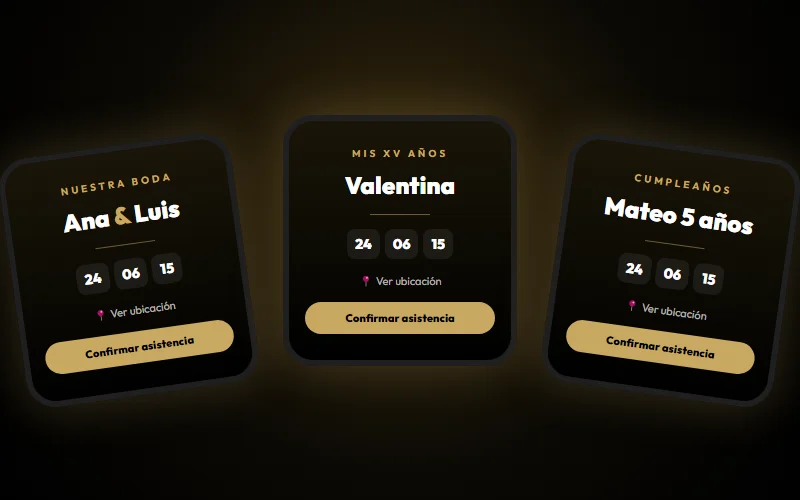
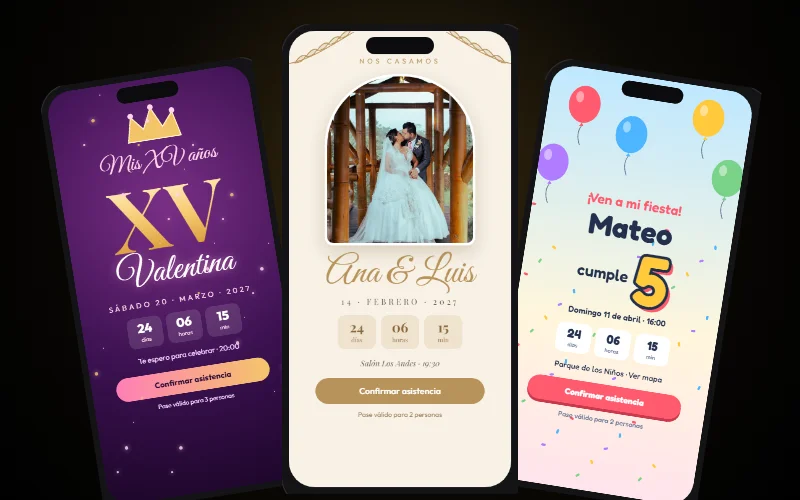
feat(sitio): imágenes reales y mockups (PROMPT_IMAGENES) + nuevas invitaciones de ejemplo
- Mockups de laptop con pantallas reales: web (ICALP), sistemas (Vendly), educativos (CAULP)
- Laptop con informe semáforo (datos ficticios) y panel 'Estado del sitio: en línea'
- Celular con anuncio propio para publicidad; foto de Pexels para foto y video
- Invitaciones de ejemplo rediseñadas: boda (crema/dorado con foto), XV (morado/dorado),
  cumpleaños infantil (globos); visibles también en celular; sección 'Así se ven' en /eventos
- Textos alternativos descriptivos en español; CREDITOS_IMAGENES.md con origen de cada imagen

diff --git a/frontend/src/data/pilares.js b/frontend/src/data/pilares.js
@@ -20,6 +20,7 @@ export const pillarPages = {
         id: 'publicidad',
         name: 'Publicidad en Facebook y TikTok',
         image: '/img/svc-publicidad.webp',
+        imageAlt: 'Celular mostrando un anuncio patrocinado de Marketing Místico en redes sociales',
         problem: 'Publicas en redes, gastas en "promocionar" y los mensajes de clientes no llegan.',
         includes: ['Estrategia y público por ciudad, edad e intereses', 'Anuncios con diseños y videos que venden', 'Seguimiento y ajustes durante la campaña', 'Reporte claro de en qué se fue tu dinero'],
         forWho: 'Negocios con un producto o servicio listo para vender que quieren más mensajes por WhatsApp.',
@@ -29,6 +30,7 @@ export const pillarPages = {
         id: 'diseno',
         name: 'Diseño y branding',
         image: '/img/svc-diseno.webp',
+        imageAlt: 'Pieza de diseño publicitario para una marca de relojes',
         problem: 'Tu marca se ve improvisada y eso hace que la gente no confíe ni pague lo que vales.',
         includes: ['Logo e identidad visual', 'Plantillas para tus publicaciones', 'Piezas para anuncios', 'Guía básica de colores y tipografías'],
         forWho: 'Emprendimientos que empiezan o marcas que quieren verse profesionales.',
@@ -38,6 +40,7 @@ export const pillarPages = {
         id: 'fotovideo',
         name: 'Foto y video',
         image: '/img/svc-fotovideo.webp',
+        imageAlt: 'Cámara de cine profesional en un set de grabación',
         problem: 'Las fotos con el celular no muestran lo bueno que es tu producto.',
         includes: ['Sesión de fotos de productos o del local', 'Reels y videos verticales para TikTok', 'Edición lista para publicar', 'Spots para tus anuncios'],
         forWho: 'Restaurantes, tiendas, academias y marcas que venden por redes.',
@@ -47,6 +50,7 @@ export const pillarPages = {
         id: 'web',
         name: 'Páginas web',
         image: '/img/svc-web.webp',
+        imageAlt: 'Laptop mostrando el sitio web del Colegio de Abogados de La Paz',
         problem: 'Te buscan en Google y no te encuentran, o tu web no genera ningún mensaje.',
         includes: ['Diseño pensado primero para el celular', 'Botón directo a tu WhatsApp', 'Configuración básica para Google', 'Ayuda con dominio y correo'],
         forWho: 'Profesionales, empresas e instituciones que necesitan una imagen seria en internet.',
@@ -56,6 +60,7 @@ export const pillarPages = {
         id: 'vendly',
         name: 'Tiendas online con Vendly',
         image: '/img/work-vendly.webp',
+        imageAlt: 'Página de Vendly, plataforma de tiendas online para emprendedores bolivianos',
         problem: 'Vendes por WhatsApp anotando pedidos a mano y pierdes ventas por desorden.',
         includes: ['Tu tienda online con catálogo', 'Cobros con QR, Yape, Tigo Money o transferencia', 'Pedidos que te llegan por WhatsApp', 'Hecho en Bolivia, con soporte en español'],
         forWho: 'Emprendedores que venden productos y quieren ordenar sus pedidos.',
@@ -87,6 +92,7 @@ export const pillarPages = {
         id: 'sistemas',
         name: 'Sistemas a medida',
         image: '/img/svc-sistemas.webp',
+        imageAlt: 'Laptop mostrando el panel de ventas de Vendly, sistema hecho a medida',
         problem: 'Controlas ventas, inventario o clientes en cuadernos y Excel que se pierden o se contradicen.',
         includes: ['Entendemos tu proceso antes de programar', 'Sistema web que usas desde el celular o la compu', 'Usuarios y permisos para tu equipo', 'Reportes para tomar decisiones'],
         forWho: 'Negocios con tareas repetitivas: ventas, inventario, reservas, cobranzas.',
@@ -95,7 +101,8 @@ export const pillarPages = {
       {
         id: 'educativos',
         name: 'Sistemas para instituciones educativas',
-        image: '/img/case-caulp.webp',
+        image: '/img/svc-educativos.webp',
+        imageAlt: 'Laptop mostrando la plataforma del Colegio de Auditores de La Paz (CAULP)',
         problem: 'Inscripciones, pagos y datos de estudiantes se manejan a mano y por mensajes sueltos.',
         includes: ['Oferta de cursos, diplomados y maestrías en línea', 'Inscripción y registro de estudiantes', 'Acceso para estudiantes', 'Reportes para la administración'],
         forWho: 'Institutos, centros de capacitación, colegios profesionales y universidades.',
@@ -106,6 +113,7 @@ export const pillarPages = {
         id: 'chatbots',
         name: 'Automatización y chatbots de WhatsApp con IA',
         image: '/img/svc-chatbots.webp',
+        imageAlt: 'Celular con un chatbot respondiendo automáticamente a un cliente',
         icon: 'Bot',
         problem: 'Respondes las mismas preguntas todo el día y se te escapan clientes por no contestar a tiempo.',
         includes: ['Respuestas automáticas a preguntas frecuentes', 'Toma de datos y pedidos del cliente', 'Pasa la conversación a una persona cuando hace falta', 'Conexión con tu catálogo o tu sistema'],
@@ -116,6 +124,7 @@ export const pillarPages = {
         id: 'capacitacion',
         name: 'Capacitación a empresas',
         image: '/img/svc-capacitacion.webp',
+        imageAlt: 'Pantalla de un taller práctico de IA y herramientas digitales para equipos',
         icon: 'GraduationCap',
         problem: 'Tu equipo no aprovecha las herramientas digitales y todo depende de una sola persona.',
         includes: ['Talleres prácticos a medida de tu empresa', 'Redes sociales, IA y herramientas de oficina', 'Uso de los sistemas que implementamos', 'Presencial o virtual'],
@@ -138,6 +147,7 @@ export const pillarPages = {
         id: 'auditoria',
         name: 'Diagnóstico y auditoría',
         image: '/img/svc-auditoria.webp',
+        imageAlt: 'Laptop mostrando un informe de diagnóstico tipo semáforo con datos de ejemplo',
         icon: 'SearchCheck',
         problem: 'No sabes si tu web, tus correos o tus datos están en riesgo hasta que algo falla.',
         includes: ['Revisión de tu web y hosting', 'Dominio, correo y accesos', 'Respaldos y contraseñas', 'Informe con semáforo y plan de acción'],
@@ -149,6 +159,7 @@ export const pillarPages = {
         id: 'mantenimiento',
         name: 'Mantenimiento y soporte mensual',
         image: '/img/svc-mantenimiento.webp',
+        imageAlt: 'Laptop mostrando el panel de mantenimiento: estado del sitio en línea',
         icon: 'Wrench',
         problem: 'Tu web se cae, queda desactualizada o necesitas un cambio y nadie se encarga.',
         includes: ['Hosting y vigilancia de tu web', 'Respaldos periódicos', 'Actualizaciones de seguridad', 'Cambios pequeños cada mes'],
@@ -160,6 +171,7 @@ export const pillarPages = {
         id: 'respaldos',
         name: 'Respaldos y seguridad',
         image: '/img/svc-respaldos.webp',
+        imageAlt: 'Lista de respaldos automáticos completados',
         icon: 'DatabaseBackup',
         problem: 'Si se daña la computadora o te roban una cuenta, puedes perder años de información.',
         includes: ['Copias de seguridad automáticas', 'Verificación en dos pasos en tus cuentas', 'Revisión de quién tiene acceso a qué', 'Plan para recuperarte si pasa algo'],

diff --git a/frontend/src/components/InvitationExamples.jsx b/frontend/src/components/InvitationExamples.jsx
@@ -1,0 +1,54 @@
+import React from 'react';
+
+// Ejemplos de invitaciones (nombres ficticios). Cuando el sistema de invitaciones esté listo,
+// agrega "demoUrl" a cada una y aparecerá el botón "Ver invitación en vivo".
+const examples = [
+  { id: 'quince', label: 'Quinceañero', name: 'Valentina', image: '/img/inv-quince.webp', alt: 'Invitación digital de quinceañero en celular, morada con corona dorada', demoUrl: '' },
+  { id: 'boda', label: 'Boda', name: 'Ana & Luis', image: '/img/inv-boda.webp', alt: 'Invitación digital de boda en celular, color crema con foto de los novios', demoUrl: '' },
+  { id: 'cumple', label: 'Cumpleaños infantil', name: 'Mateo cumple 5', image: '/img/inv-cumple.webp', alt: 'Invitación digital de cumpleaños infantil en celular, con globos de colores', demoUrl: '' },
+];
+
+const InvitationExamples = () => (
+  <section className="py-12 md:py-16">
+    <div className="container mx-auto px-4 sm:px-6">
+      <div className="text-center max-w-2xl mx-auto mb-8 md:mb-12">
+        <p className="text-[#c9a961] text-xs uppercase tracking-[0.2em] font-black mb-3">Ejemplos</p>
+        <h2 className="text-white text-[1.75rem] sm:text-4xl font-black tracking-tight mb-3">Así se ven tus invitaciones</h2>
+        <p className="text-white/70">Cada diseño se adapta a tu evento: tus fotos, tus colores y tus datos.</p>
+      </div>
+
+      {/* Celular: los 3 ejemplos en una sola imagen */}
+      <img
+        src="/img/svc-invitaciones.webp"
+        alt="Tres ejemplos de invitaciones digitales en celular: quinceañero, boda y cumpleaños infantil"
+        width="800"
+        height="500"
+        loading="lazy"
+        decoding="async"
+        className="md:hidden w-full rounded-2xl"
+      />
+
+      {/* Tablet y escritorio: cada ejemplo grande */}
+      <div className="hidden md:grid grid-cols-3 gap-6 lg:gap-10 max-w-5xl mx-auto items-end">
+        {examples.map((ex, i) => (
+          <figure key={ex.id} className={`text-center ${i === 1 ? 'md:-translate-y-6' : ''}`}>
+            <img src={ex.image} alt={ex.alt} width="382" height="762" loading="lazy" decoding="async" className="w-full max-w-[280px] mx-auto drop-shadow-[0_25px_40px_rgba(0,0,0,0.6)]" />
+            <figcaption className="mt-5">
+              <p className="text-[#c9a961] text-xs uppercase tracking-[0.18em] font-black">{ex.label}</p>
+              <p className="text-white font-bold">{ex.name}</p>
+              {ex.demoUrl ? (
+                <a href={ex.demoUrl} target="_blank" rel="noopener noreferrer" className="inline-block mt-3 text-sm font-bold text-black bg-[#c9a961] hover:bg-[#d4af37] px-5 py-2.5 rounded-full">
+                  Ver invitación en vivo
+                </a>
+              ) : (
+                <p className="text-white/45 text-xs mt-1">Demo en vivo muy pronto</p>
+              )}
+            </figcaption>
+          </figure>
+        ))}
+      </div>
+    </div>
+  </section>
+);
+
+export default InvitationExamples;

diff --git a/frontend/src/components/Invitations.jsx b/frontend/src/components/Invitations.jsx
@@ -1,5 +1,5 @@
 import React from 'react';
-import { Check, MapPin, Clock, CalendarHeart, ExternalLink } from 'lucide-react';
+import { Check, ExternalLink } from 'lucide-react';
 import { invitationsSection, invitationPackages, invitationSteps } from '../data/landing';
 import { waLink, whatsappMessages } from '../data/contacto';
 import SectionHeader from './SectionHeader';
@@ -8,37 +8,6 @@ import metaPixel from '../lib/metaPixel';
 
 const packageMessage = (pkg) =>
   `Hola Marketing Místico 👋 Quiero la invitación digital ${pkg.name} (Bs ${pkg.price}). Mi evento es: `;
-
-// Celular de muestra (ilustrativo) para que el cliente imagine su invitación.
-const PhoneMockup = () => (
-  <div className="relative mx-auto w-[220px] sm:w-[240px] shrink-0" aria-hidden="true">
-    <span className="absolute -top-3 left-1/2 -translate-x-1/2 z-10 bg-white/10 border border-white/20 text-white/70 text-[10px] uppercase tracking-widest font-bold px-3 py-1 rounded-full backdrop-blur">
-      Ejemplo
-    </span>
-    <div className="rounded-[2.2rem] border-[6px] border-[#1f1f1f] bg-gradient-to-b from-[#1a1508] via-[#0d0b07] to-black shadow-[0_0_60px_rgba(201,169,97,0.18)] overflow-hidden">
-      <div className="h-5 flex justify-center pt-1.5"><div className="w-16 h-1.5 rounded-full bg-[#2a2a2a]" /></div>
-      <div className="px-5 pt-5 pb-6 text-center">
-        <p className="text-[#c9a961] text-[10px] uppercase tracking-[0.3em] font-bold">Nuestra boda</p>
-        <p className="text-white text-2xl font-black mt-2 leading-tight">Ana <span className="text-[#c9a961]">&</span> Luis</p>
-        <div className="h-px w-16 bg-[#c9a961]/50 mx-auto my-4" />
-        <div className="grid grid-cols-4 gap-1.5 mb-4">
-          {[['24', 'días'], ['06', 'hrs'], ['15', 'min'], ['40', 'seg']].map(([n, l]) => (
-            <div key={l} className="bg-white/5 rounded-lg py-1.5">
-              <p className="text-white text-sm font-black">{n}</p>
-              <p className="text-white/50 text-[9px]">{l}</p>
-            </div>
-          ))}
-        </div>
-        <div className="space-y-2 text-left text-[11px] text-white/75 mb-5">
-          <p className="flex items-center gap-2"><CalendarHeart size={13} className="text-[#c9a961]" /> Sábado 14 de febrero</p>
-          <p className="flex items-center gap-2"><Clock size={13} className="text-[#c9a961]" /> 19:30</p>
-          <p className="flex items-center gap-2"><MapPin size={13} className="text-[#c9a961]" /> Ver ubicación en el mapa</p>
-        </div>
-        <div className="bg-[#c9a961] text-black text-[11px] font-black rounded-full py-2.5">Confirmar asistencia</div>
-      </div>
-    </div>
-  </div>
-);
 
 const PackageCard = ({ pkg }) => (
   <article
@@ -111,7 +80,6 @@ const Invitations = () => (
             ))}
           </ol>
         </div>
-        <div className="hidden lg:block"><PhoneMockup /></div>
       </div>
 
       <div className="grid md:grid-cols-3 gap-6 md:gap-5 lg:gap-6 max-w-6xl mx-auto pt-3">

diff --git a/frontend/src/pages/PillarPage.jsx b/frontend/src/pages/PillarPage.jsx
@@ -29,7 +29,7 @@ const ServiceBlock = ({ service, reverse }) => {
     <article id={service.id} className="scroll-mt-24 grid md:grid-cols-2 gap-6 md:gap-12 items-center py-10 md:py-14 border-t border-white/10 first:border-t-0">
       <div className={`${reverse ? 'md:order-2' : ''} ${service.image ? '' : 'hidden md:block'}`}>
         {service.image ? (
-          <img src={service.image} alt={service.name} width="800" height="500" loading="lazy" decoding="async" className="w-full aspect-[16/10] object-cover object-top rounded-3xl border border-white/10" />
+          <img src={service.image} alt={service.imageAlt || service.name} width="800" height="500" loading="lazy" decoding="async" className="w-full aspect-[16/10] object-cover object-top rounded-3xl border border-white/10" />
         ) : (
           <div className="hidden md:flex w-full aspect-[16/10] rounded-3xl border border-[#c9a961]/25 bg-gradient-to-br from-[#1a1508] via-[#0b0905] to-black items-center justify-center">
             {Icon && <Icon size={84} strokeWidth={1.2} className="text-[#c9a961]/80" />}

diff --git a/frontend/src/pages/Eventos.jsx b/frontend/src/pages/Eventos.jsx
@@ -2,6 +2,7 @@ import React, { lazy, Suspense } from 'react';
 import { PartyPopper, Send, CheckCircle, QrCode, ScanLine } from 'lucide-react';
 import PageLayout from '../components/PageLayout';
 import PageHero from '../components/PageHero';
+import InvitationExamples from '../components/InvitationExamples';
 import WhatsAppButton from '../components/WhatsAppButton';
 import { eventosPage } from '../data/paginas';
 import { pageMessages } from '../data/sitio';
@@ -26,6 +27,8 @@ const Eventos = () => (
         </button>
       </div>
     </PageHero>
+
+    <InvitationExamples />
 
     {/* Pases QR y control de asistencia */}
     <section className="py-12 md:py-16">

diff --git a/frontend/src/components/EventsBand.jsx b/frontend/src/components/EventsBand.jsx
@@ -27,11 +27,12 @@ const EventsBand = () => (
         </div>
         <img
           src="/img/svc-invitaciones.webp"
-          alt="Ejemplos de invitaciones digitales"
+          alt="Tres ejemplos de invitaciones digitales en celular: boda, quinceañero y cumpleaños infantil"
           width="800"
           height="500"
           loading="lazy"
-          className="hidden md:block w-[380px] rounded-2xl border border-white/10"
+          decoding="async"
+          className="order-first md:order-none w-full md:w-[420px] rounded-2xl border border-white/10"
         />
       </div>
     </div>

diff --git a/CREDITOS_IMAGENES.md b/CREDITOS_IMAGENES.md
@@ -1,0 +1,45 @@
+# Créditos de imágenes — marketingmistico.com
+
+Regla: nada de Google Imágenes ni de otras webs. Solo imágenes propias, bancos gratuitos con licencia comercial
+(Unsplash, Pexels, Pixabay) o mockups hechos con código. Todas optimizadas a WebP con carga diferida.
+
+## 1. Bancos gratuitos (licencia comercial)
+
+| Archivo en la web | Uso | Fuente | Autor | Licencia |
+|---|---|---|---|---|
+| `img/svc-fotovideo.webp` | Servicio "Foto y video" | https://www.pexels.com/photo/close-up-photo-of-black-camera-10395639/ | Syed Qaarif Andrabi (https://www.pexels.com/@qaarif/) | Licencia Pexels (uso comercial gratuito) |
+| `img/inv-boda.webp`, `img/svc-invitaciones.webp` (foto de los novios) | Ejemplo de invitación de boda | https://www.pexels.com/photo/photo-of-the-bride-and-groom-kissing-25637515/ | **[CONFIRMAR AUTOR]** — Pexels bloqueó la consulta automática; abre el enlace y copia el nombre aquí | Licencia Pexels (uso comercial gratuito) |
+
+## 2. Imágenes propias de Marketing Místico
+
+| Archivo | Origen |
+|---|---|
+| `img/robot-base.webp`, `img/robot-brazo-izq.webp`, `img/robot-brazo-der.webp` | Cuadro del video propio `video_header` (generado con Google Veo), recortado en capas |
+| `img/yo-retrato.webp`, `img/yo-avatar.webp` | Foto profesional del dueño ("Retrato profesional con halo cálido") |
+| `img/svc-diseno.webp` | Diseño propio (`luxury_watch_post.webp`) |
+| `img/svc-publicidad.webp` | Anuncio propio (`publicidad (3).webp`) dentro de un mockup de celular |
+| `img/work-cenefco.webp`, `img/work-pasion.webp` | Miniaturas de trabajos propios |
+| `og-image.jpg`, `logo_nav.webp` | Logo y textos de la marca |
+
+## 3. Capturas reales de proyectos (sitios hechos por Marketing Místico)
+
+| Archivo | Sitio capturado |
+|---|---|
+| `img/svc-web.webp`, `img/work-icalp.webp` | https://icalp.org.bo (Colegio de Abogados de La Paz) |
+| `img/svc-educativos.webp`, `img/case-caulp.webp` | https://caulp.org.bo (Colegio de Auditores de La Paz) |
+| `img/svc-sistemas.webp`, `img/work-vendly.webp` | https://vendly.com.bo (producto propio) |
+
+## 4. Mockups e ilustraciones hechos con código (sin derechos de terceros)
+
+| Archivo | Contenido |
+|---|---|
+| `img/svc-auditoria.webp` | Laptop con informe semáforo — **datos ficticios** ("Negocio de ejemplo") |
+| `img/svc-mantenimiento.webp` | Laptop con panel "Estado del sitio: en línea" — datos de ejemplo |
+| `img/svc-chatbots.webp`, `img/svc-capacitacion.webp`, `img/svc-respaldos.webp` | Ilustraciones de interfaz con datos de ejemplo |
+| `img/inv-quince.webp`, `img/inv-cumple.webp` | Invitaciones de ejemplo ilustradas (nombres ficticios: Valentina, Mateo) |
+| `img/inv-boda.webp` | Invitación de ejemplo (nombres ficticios: Ana & Luis) con la foto de Pexels indicada arriba |
+
+## Pendiente
+
+- [ ] Confirmar el autor de la foto de boda de Pexels (enlace arriba).
+- [ ] Carpeta `/assets/reales`: cuando tengas capturas del sistema de Cenefco o tu foto `adrian.webp`, ponlas ahí y se reemplazan.
